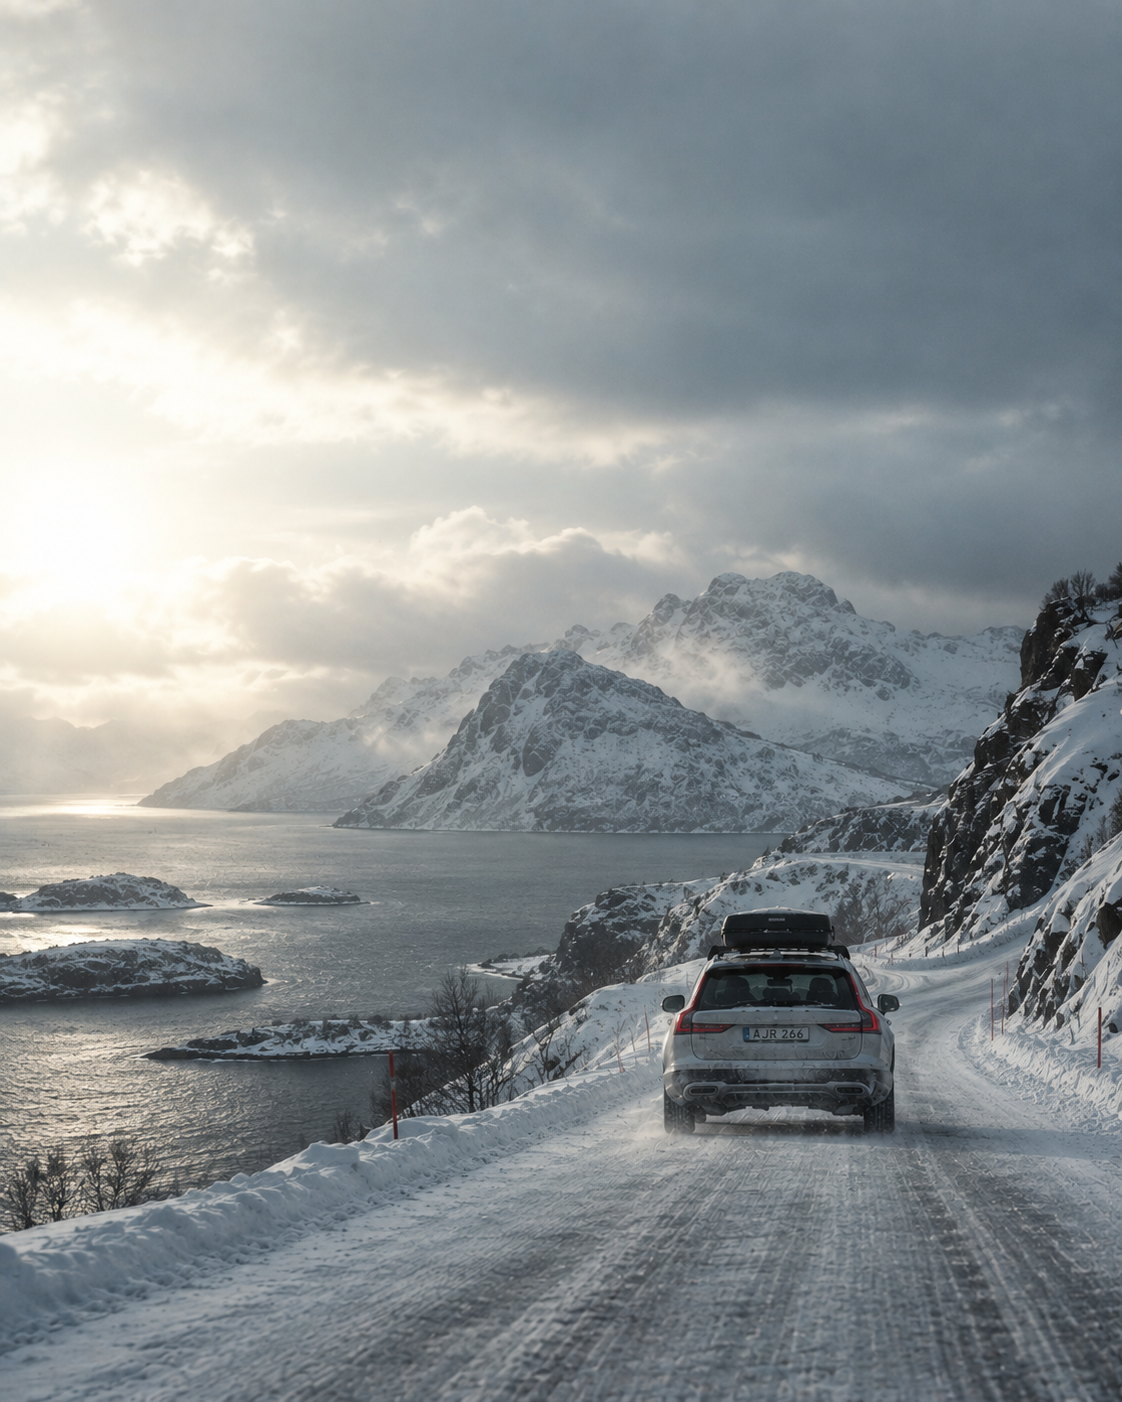
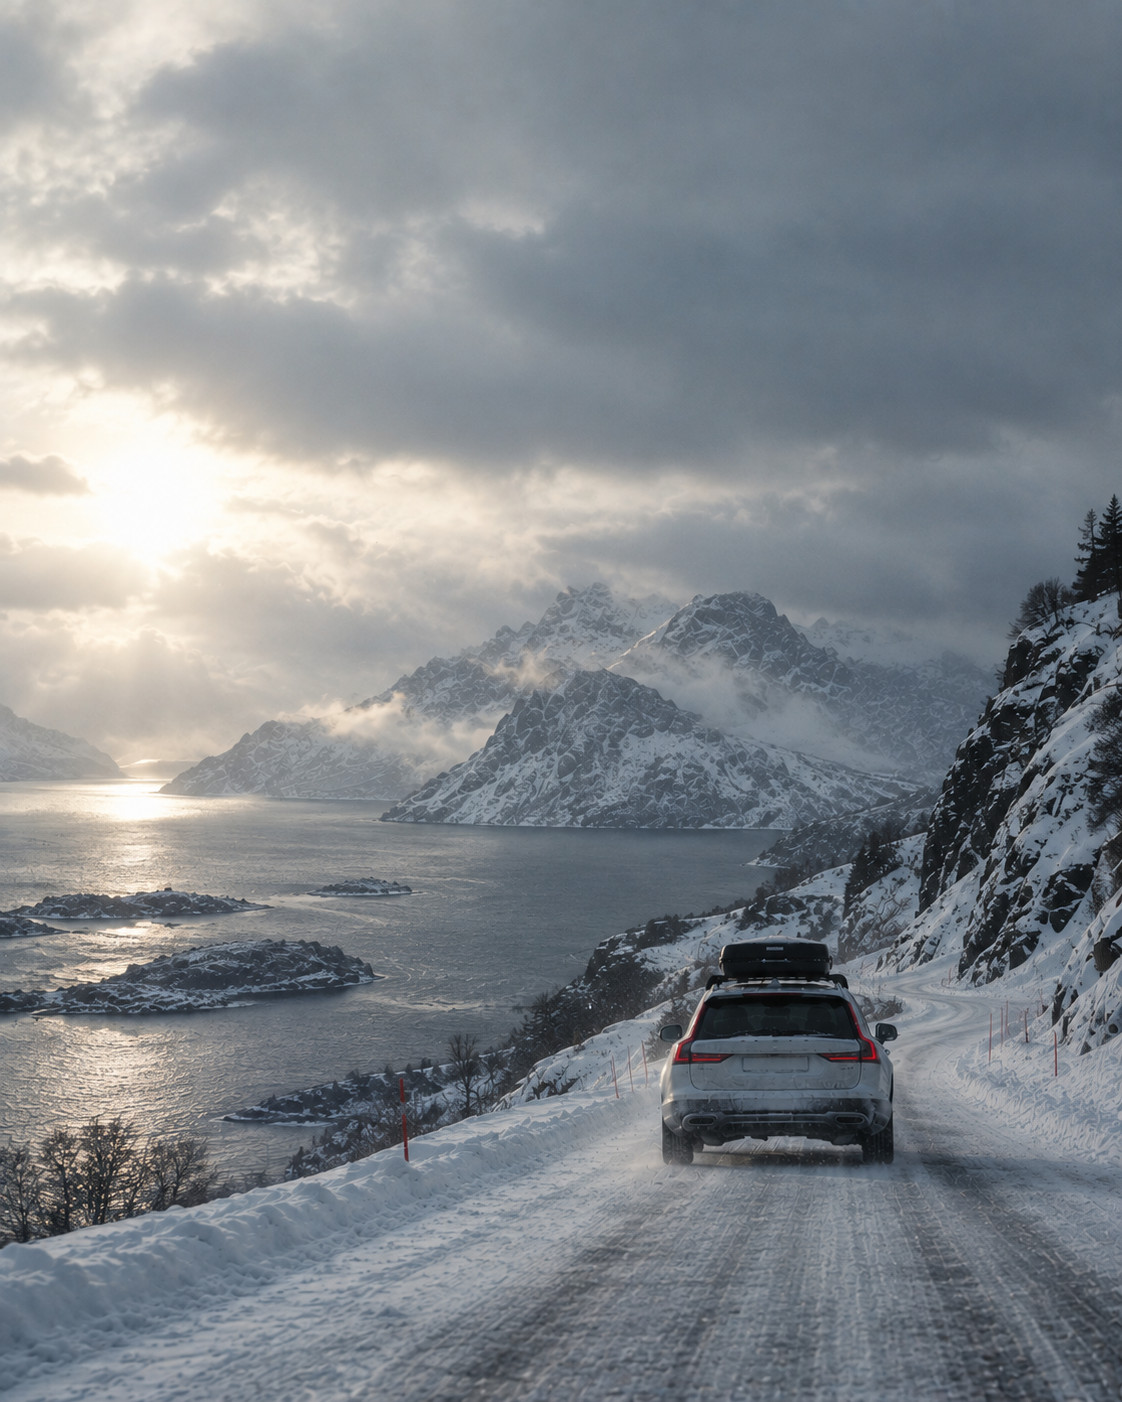
Add files via upload

diff --git a/index.html b/index.html
@@ -7,12 +7,13 @@
 <meta name="description" content="Vaernheim makes custom-fit floor mats and boot liners in recyclable TPE, moulded to each car model. Built to last, the Nordic way. Made in Europe.">
 <style>
   :root{
-    --ink:#1B1E20;
-    --ink-soft:#5B6265;
-    --line:#E3E6E7;
+    --ink:#1A1D1F;
+    --ink-soft:#5E6568;
+    --ink-faint:#8D9497;
+    --line:#E4E7E8;
     --betong:#B4B8B6;
     --paper:#FFFFFF;
-    --mist:#F5F7F7;
+    --mist:#F4F5F5;
   }
   *{margin:0;padding:0;box-sizing:border-box}
   html{-webkit-text-size-adjust:100%;scroll-behavior:smooth}
@@ -24,93 +25,113 @@
     font-size:17px;
     line-height:1.7;
     -webkit-font-smoothing:antialiased;
+    overflow-x:hidden;
   }
   a{color:inherit}
   svg{display:block}
-  .wrap{max-width:1180px;margin:0 auto;padding-inline:clamp(22px,5vw,56px)}
+  .wrap{max-width:1360px;margin:0 auto;padding-inline:clamp(22px,5vw,64px)}
 
   /* header */
-  header{padding-block:clamp(22px,3vw,34px)}
-  .logo{width:clamp(148px,17vw,210px);height:auto}
+  header{padding-block:clamp(22px,3vw,36px)}
+  .logo{width:clamp(150px,16vw,212px);height:auto}
   .logo path{fill:var(--betong)}
 
-  /* hero: text vänster, bild höger */
+  /* hero — text vänster, bilden hel till höger */
   .hero{
     display:grid;
-    grid-template-columns:minmax(0,.9fr) minmax(0,1.1fr);
-    gap:clamp(28px,5vw,72px);
+    grid-template-columns:minmax(0,1fr) auto;
     align-items:center;
-    padding-block:clamp(10px,2vw,28px) clamp(48px,7vw,96px);
+    gap:clamp(28px,5vw,80px);
+    max-width:1600px;
+    margin:0 auto;
+    padding-left:clamp(22px,5vw,64px);
   }
-  .hero-bild img{
-    width:100%;height:auto;
-    aspect-ratio:1122/1402;
-    object-fit:cover;
-    display:block;
+  .hero-text{
+    max-width:520px;
+    padding-block:clamp(24px,4vw,56px);
   }
   h1{
-    font-size:clamp(36px,4.6vw,66px);
+    font-size:clamp(38px,4.8vw,70px);
     font-weight:300;
-    line-height:1.06;
-    letter-spacing:-.025em;
-    max-width:14ch;
+    line-height:1.04;
+    letter-spacing:-.028em;
   }
   h1 em{font-style:normal;color:var(--ink-soft)}
   .under{
-    margin-top:clamp(18px,2.4vw,28px);
-    font-size:clamp(17px,1.6vw,21px);
+    margin-top:clamp(20px,2.6vw,30px);
+    font-size:clamp(17px,1.55vw,21px);
     line-height:1.55;
     color:var(--ink-soft);
-    max-width:38ch;
-    font-weight:300;
+    max-width:36ch;
   }
-  @media (max-width:820px){
-    .hero{grid-template-columns:1fr;gap:26px;padding-bottom:44px}
+  .hero-fakta{
+    display:flex;gap:clamp(22px,3vw,40px);flex-wrap:wrap;
+    margin-top:clamp(28px,4vw,48px);
+    padding-top:22px;border-top:1px solid var(--line);
+  }
+  .hero-fakta span{font-size:13px;letter-spacing:.06em;text-transform:uppercase;color:var(--ink-faint);font-weight:400}
+
+  .hero-bild{line-height:0}
+  .hero-bild img{
+    display:block;
+    height:clamp(540px,80vh,1060px);
+    width:auto;
+    max-width:min(58vw,1122px);
+    object-fit:cover;
+    object-position:50% 100%;
+  }
+  @media (max-width:860px){
+    .hero{grid-template-columns:1fr;gap:0;padding-left:0}
     .hero-bild{order:-1}
-    h1{max-width:none}
+    .hero-bild img{width:100%;height:auto;max-width:none;max-height:82vh;object-fit:cover;object-position:50% 100%}
+    .hero-text{padding:clamp(28px,6vw,44px) clamp(22px,5vw,64px) 8px;max-width:none}
   }
 
-  /* sektioner */
-  section{padding-block:clamp(44px,6vw,86px);border-top:1px solid var(--line)}
-  .rad{display:grid;grid-template-columns:minmax(0,1fr) minmax(0,1.35fr);gap:clamp(24px,5vw,72px);align-items:start}
-  @media (max-width:820px){.rad{grid-template-columns:1fr;gap:14px}}
-  h2{
-    font-size:clamp(22px,2.6vw,31px);
-    font-weight:300;
-    line-height:1.18;
-    letter-spacing:-.02em;
+  /* pelare */
+  .pelare{background:var(--mist);margin-top:clamp(44px,6vw,88px)}
+  .pelare .wrap{
+    display:grid;grid-template-columns:repeat(3,1fr);
+    gap:clamp(24px,4vw,64px);
+    padding-block:clamp(40px,5vw,72px);
   }
-  section p{color:var(--ink-soft);max-width:60ch}
-  section p + p{margin-top:1em}
+  .pelare h2{
+    font-size:clamp(20px,1.9vw,24px);
+    font-weight:400;line-height:1.25;letter-spacing:-.015em;
+    margin-bottom:12px;
+  }
+  .pelare p{font-size:15.5px;line-height:1.65;color:var(--ink-soft)}
+  @media (max-width:860px){.pelare .wrap{grid-template-columns:1fr;gap:30px}}
 
-  .punkter{list-style:none;margin-top:clamp(26px,3.5vw,40px);
-    display:grid;grid-template-columns:repeat(3,1fr);gap:clamp(20px,3vw,44px)}
-  @media (max-width:820px){.punkter{grid-template-columns:1fr;gap:22px}}
-  .punkter li{border-top:1px solid var(--line);padding-top:16px}
-  .punkter b{display:block;font-weight:500;font-size:16px;margin-bottom:5px}
-  .punkter span{font-size:15px;color:var(--ink-soft);line-height:1.6}
+  /* berättelse */
+  section{padding-block:clamp(52px,7vw,100px)}
+  section + section{border-top:1px solid var(--line)}
+  .rad{display:grid;grid-template-columns:minmax(0,1fr) minmax(0,1.4fr);gap:clamp(24px,5vw,80px);align-items:start}
+  @media (max-width:860px){.rad{grid-template-columns:1fr;gap:14px}}
+  .rad h2{
+    font-size:clamp(26px,3vw,38px);
+    font-weight:300;line-height:1.14;letter-spacing:-.025em;
+  }
+  .rad p{color:var(--ink-soft);max-width:58ch}
+  .rad p + p{margin-top:1em}
 
-  .notis{background:var(--mist);border-top:1px solid var(--line)}
-  .notis .wrap{padding-block:clamp(34px,4.5vw,58px)}
-  .notis h2{font-size:clamp(18px,2vw,23px)}
-  .notis p{font-size:15.5px;margin-top:12px}
+  /* notis */
+  .notis{border-top:1px solid var(--line)}
+  .notis .wrap{padding-block:clamp(34px,4.5vw,60px);max-width:1360px}
+  .notis h2{font-size:clamp(17px,1.7vw,21px);font-weight:400;letter-spacing:-.01em}
+  .notis p{font-size:15px;color:var(--ink-soft);margin-top:10px;max-width:70ch}
 
   /* sidfot */
-  footer{border-top:1px solid var(--line);padding-block:clamp(34px,4.5vw,52px) clamp(28px,4vw,44px)}
+  footer{border-top:1px solid var(--line);padding-block:clamp(36px,5vw,56px) clamp(28px,4vw,44px)}
   .fot-topp{display:flex;justify-content:space-between;align-items:flex-end;gap:28px;flex-wrap:wrap}
-  .fot-logo{width:132px;height:auto}
+  .fot-logo{width:136px;height:auto}
   .fot-logo path{fill:var(--betong)}
   .fot-lank{font-size:14px;color:var(--ink-soft);text-decoration:none;border-bottom:1px solid var(--line);padding-bottom:2px}
   .fot-lank:hover{color:var(--ink);border-bottom-color:var(--betong)}
   .juridik{
-    margin-top:clamp(26px,3.5vw,40px);
-    padding-top:18px;
-    border-top:1px solid var(--line);
-    font-size:12.5px;
-    line-height:1.85;
-    color:#8A9093;
+    margin-top:clamp(26px,3.5vw,40px);padding-top:18px;border-top:1px solid var(--line);
+    font-size:12.5px;line-height:1.85;color:var(--ink-faint);
   }
-  .juridik a{color:#8A9093}
+  .juridik a{color:var(--ink-faint)}
 </style>
 </head>
 <body>
@@ -123,47 +144,45 @@
   </div>
 </header>
 
-<div class="wrap hero">
+<div class="hero">
   <div class="hero-text">
     <h1>Built to last.<br><em>The Nordic way.</em></h1>
-    <p class="under">Custom-fit floor mats and boot liners in recyclable TPE, moulded to each car model. Made in Europe.</p>
+    <p class="under">Custom-fit floor mats and boot liners in recyclable TPE, moulded to each car model.</p>
+    <div class="hero-fakta">
+      <span>Made in Europe</span>
+      <span>100% recyclable</span>
+      <span>Launching autumn 2026</span>
+    </div>
   </div>
   <div class="hero-bild">
-    <img src="hero.jpg" width="1122" height="1402"
+    <img src="hero.jpg" width="1122" height="1402" fetchpriority="high" decoding="async"
          alt="A car on a snow-covered coastal mountain road in the Nordic winter">
+  </div>
+</div>
+
+<div class="pelare">
+  <div class="wrap">
+    <div>
+      <h2>Moulded to one floor</h2>
+      <p>Each mat is shaped to a scan of a specific model, year and body — following the tunnel, the pedal cut-out and the sill into the corners — and locks into the fixing points the car already has.</p>
+    </div>
+    <div>
+      <h2>Made for the dark months</h2>
+      <p>A raised edge holds meltwater, grit and road salt until you lift the mat out and hose it down. The material stays flexible far below freezing and does not crack when unfolded in frost.</p>
+    </div>
+    <div>
+      <h2>Made in Europe</h2>
+      <p>Moulded by established European suppliers under European environmental and labour rules, with short transport to the markets the mats are sold in.</p>
+    </div>
   </div>
 </div>
 
 <section>
   <div class="wrap rad">
-    <h2>Moulded to your car,<br>not to a template</h2>
+    <h2>Why TPE, and not rubber or textile</h2>
     <div>
-      <p>Two cars sharing a model name can have different floors depending on year, body and drivetrain. Every Vaernheim mat is shaped to one specific floor — following the tunnel, the pedal cut-out and the sill all the way into the corners — and locks into the fixing points the car already has.</p>
-      <ul class="punkter">
-        <li><b>Exact fit</b><span>Shaped to a scan of the original floor, not to a generic outline.</span></li>
-        <li><b>Original fixings</b><span>No loose clips or hook-and-loop strips that work themselves free.</span></li>
-        <li><b>Clear of the pedals</b><span>Material thickness matched to the pedal travel.</span></li>
-      </ul>
-    </div>
-  </div>
-</section>
-
-<section>
-  <div class="wrap rad">
-    <h2>Made for<br>the dark months</h2>
-    <div>
-      <p>A textile mat soaks up the slush and returns it to the floor pan underneath. TPE does the opposite: the raised edge holds the meltwater until you lift the mat out and hose it down.</p>
-      <p>The material stays flexible far below freezing, so it will not crack when unfolded in frost. It does not absorb road salt, leaves no white streaks, and has no scent of its own — so nothing needs perfuming to cover it.</p>
-    </div>
-  </div>
-</section>
-
-<section>
-  <div class="wrap rad">
-    <h2>Made in Europe,<br>and made to return</h2>
-    <div>
-      <p>The mats are moulded by established European suppliers, under European environmental and labour rules, with short transport to the markets they are sold in.</p>
-      <p>TPE is a thermoplastic elastomer: it can be melted down and moulded again without losing its properties. A worn set is raw material, not waste.</p>
+      <p>A textile mat soaks up the slush and returns it to the floor pan underneath. Rubber is heavy, stiffens in the cold and tends to smell in a warm cabin. TPE — a thermoplastic elastomer — does neither. It is lighter, stays supple in winter, has no scent of its own, and takes no colour from road salt.</p>
+      <p>It can also be melted down and moulded again without losing its properties. A worn set is raw material, not waste.</p>
     </div>
   </div>
 </section>
